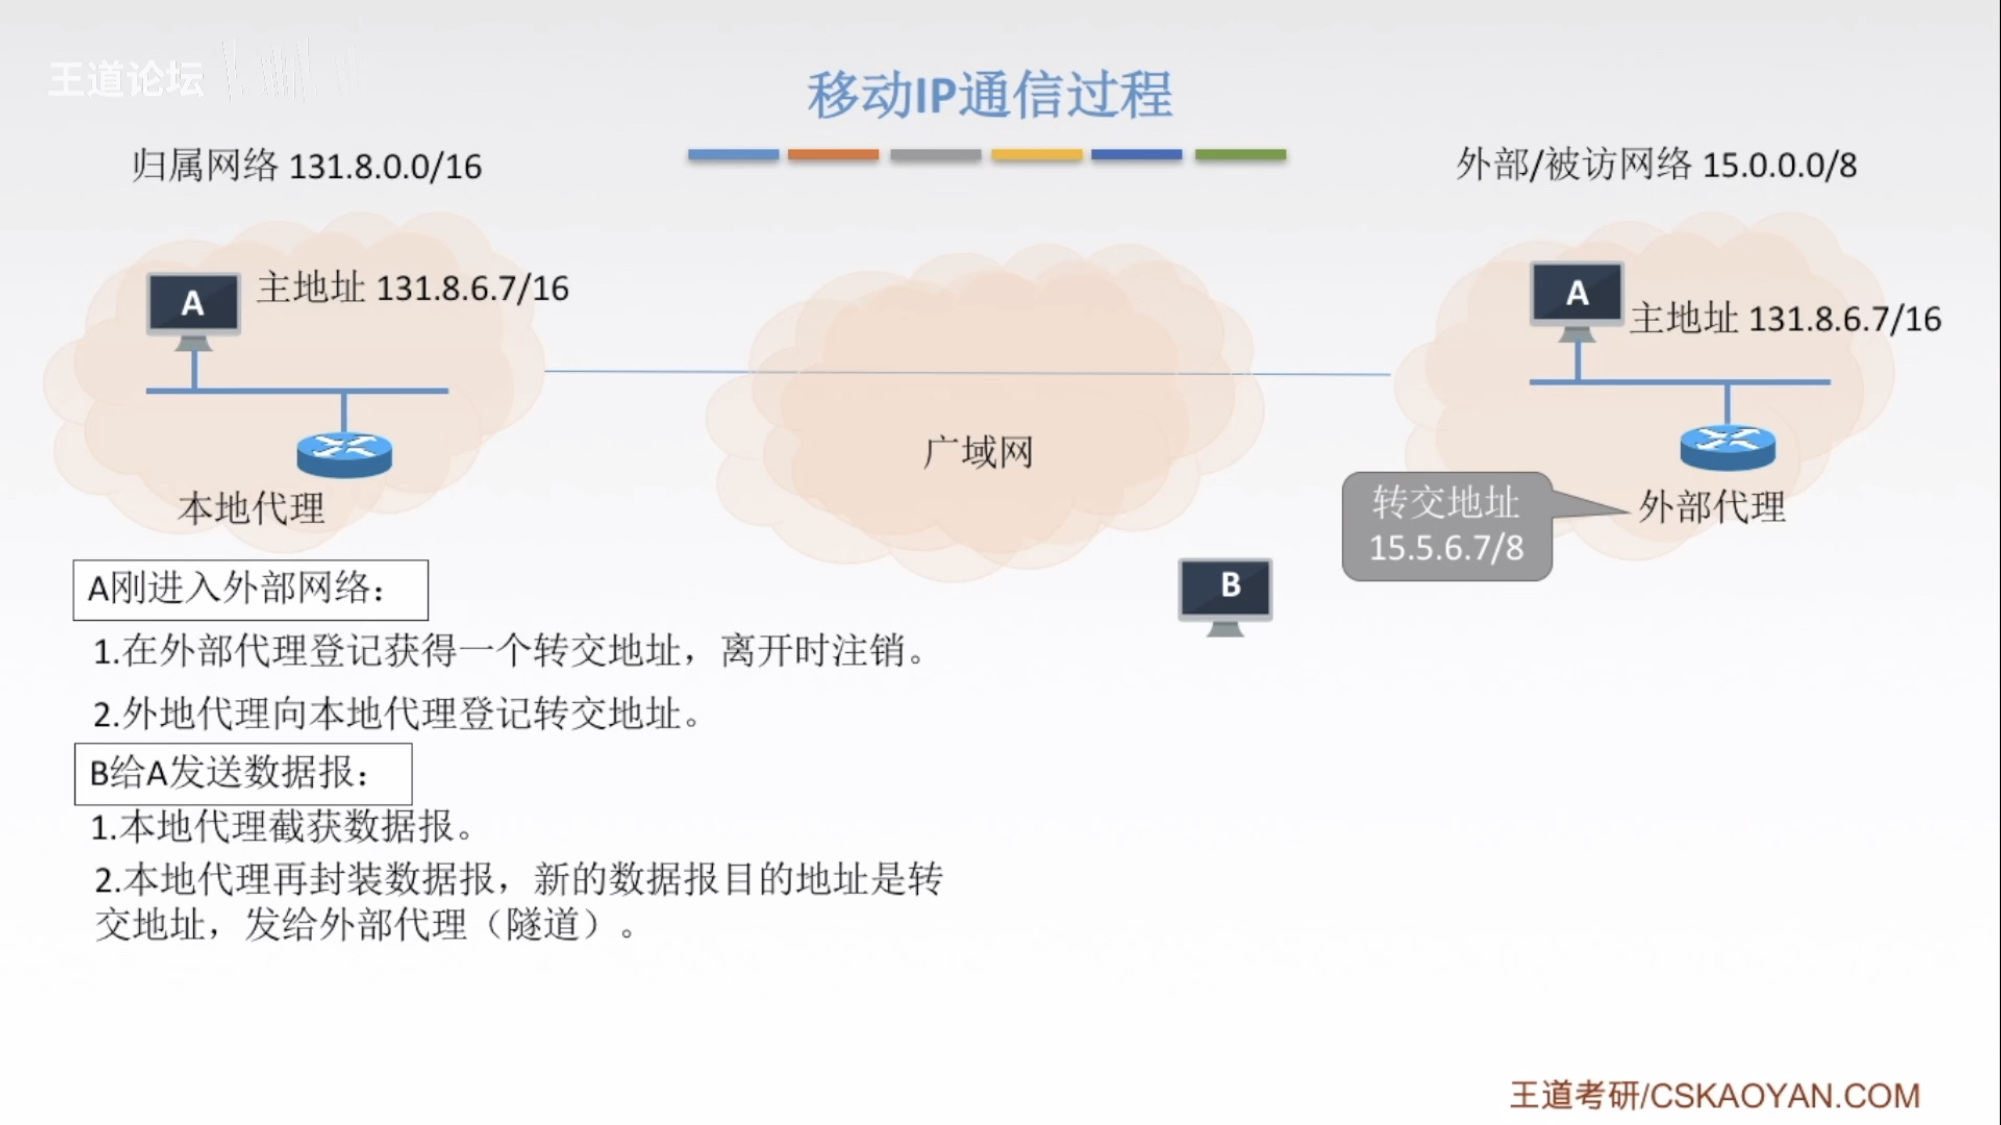
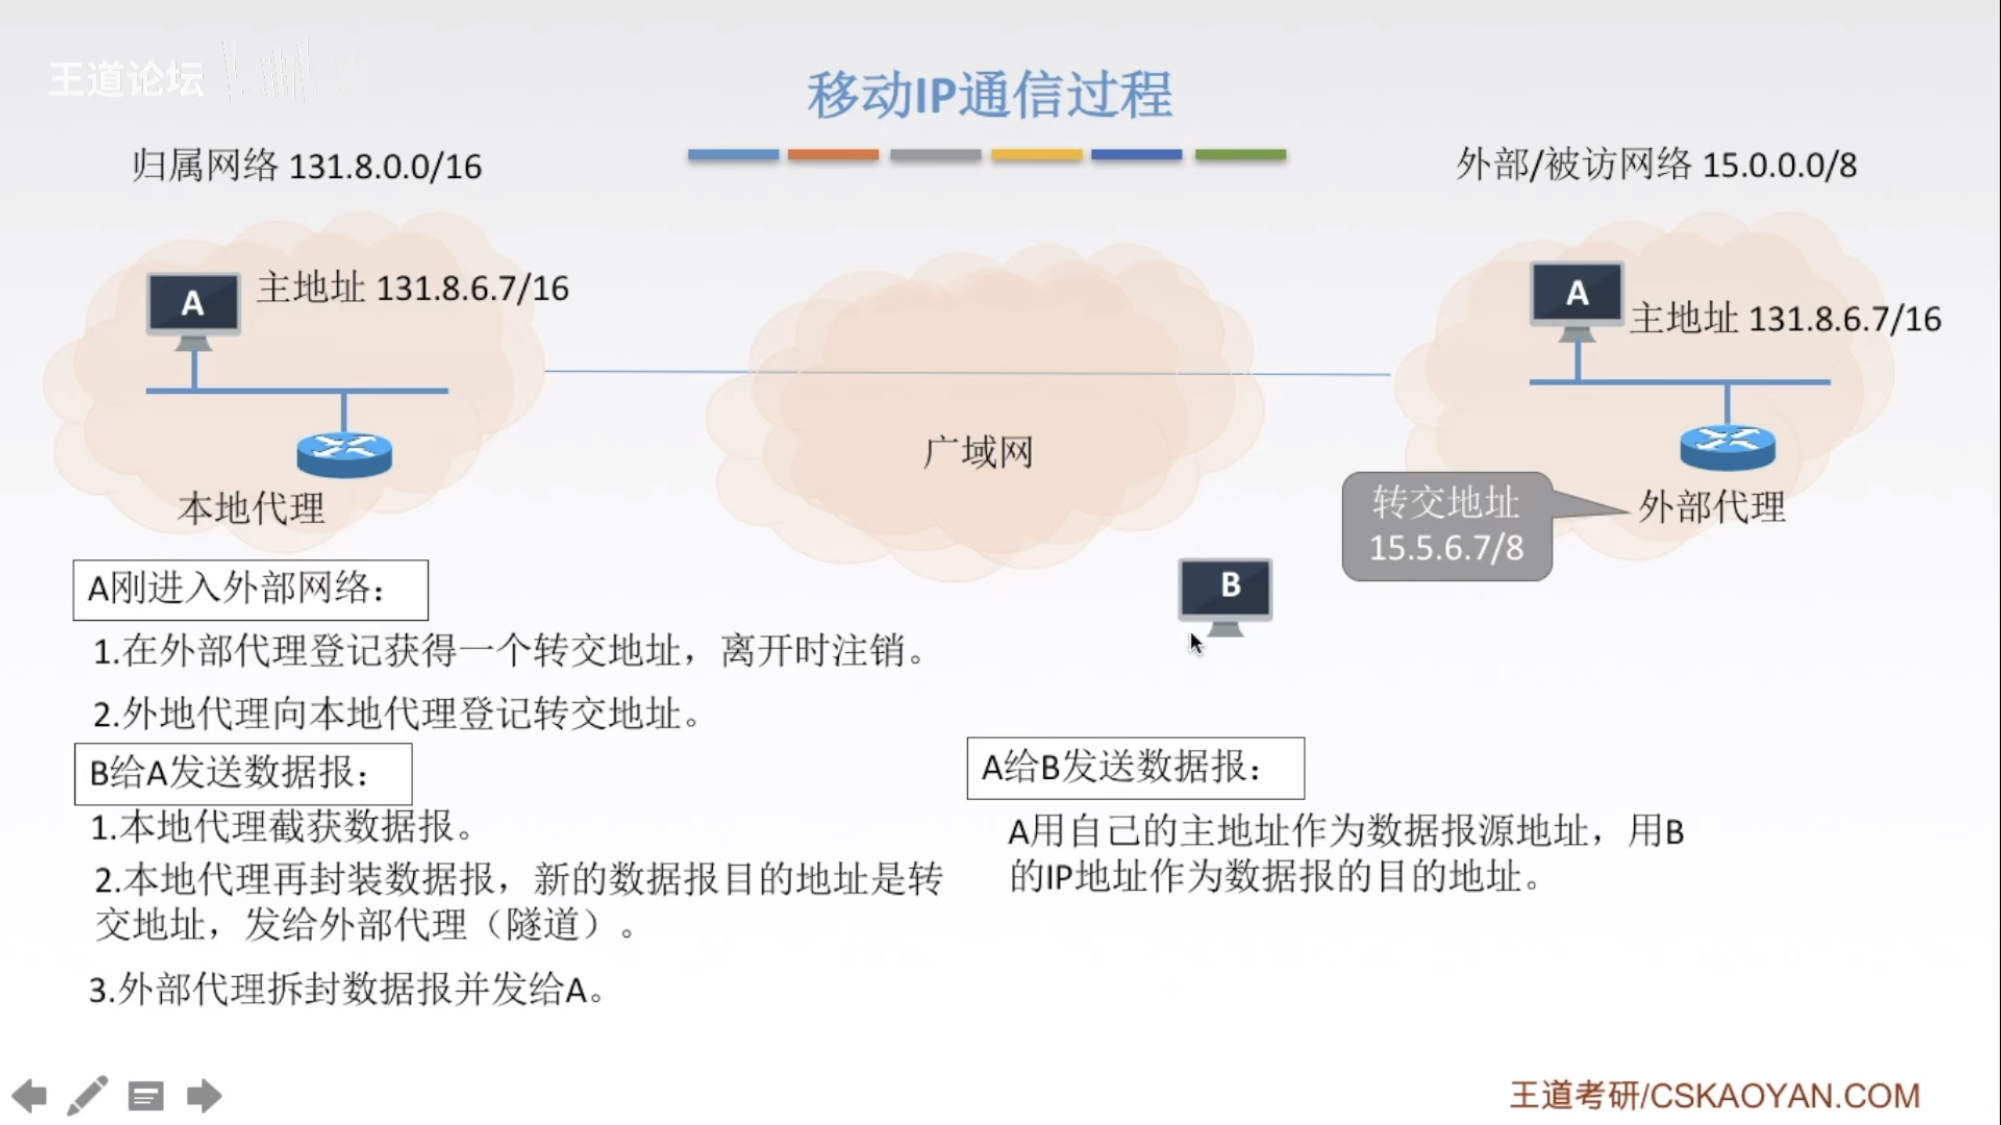
a

diff --git a/internet/seperate_notes/lesson4.md b/internet/seperate_notes/lesson4.md
@@ -666,7 +666,9 @@ IP组播地址让源设备能够将分组发送给一组设备，
 
 ![移动IP通信过程](https://github.com/nilshao/cpp-notebook/raw/master/internet/pictures/chapter04/移动IP通信过程.jpeg)
 
+3. 外部代理拆封数据报并发给A
 
+A移动到了下一个网络
 
 
 
